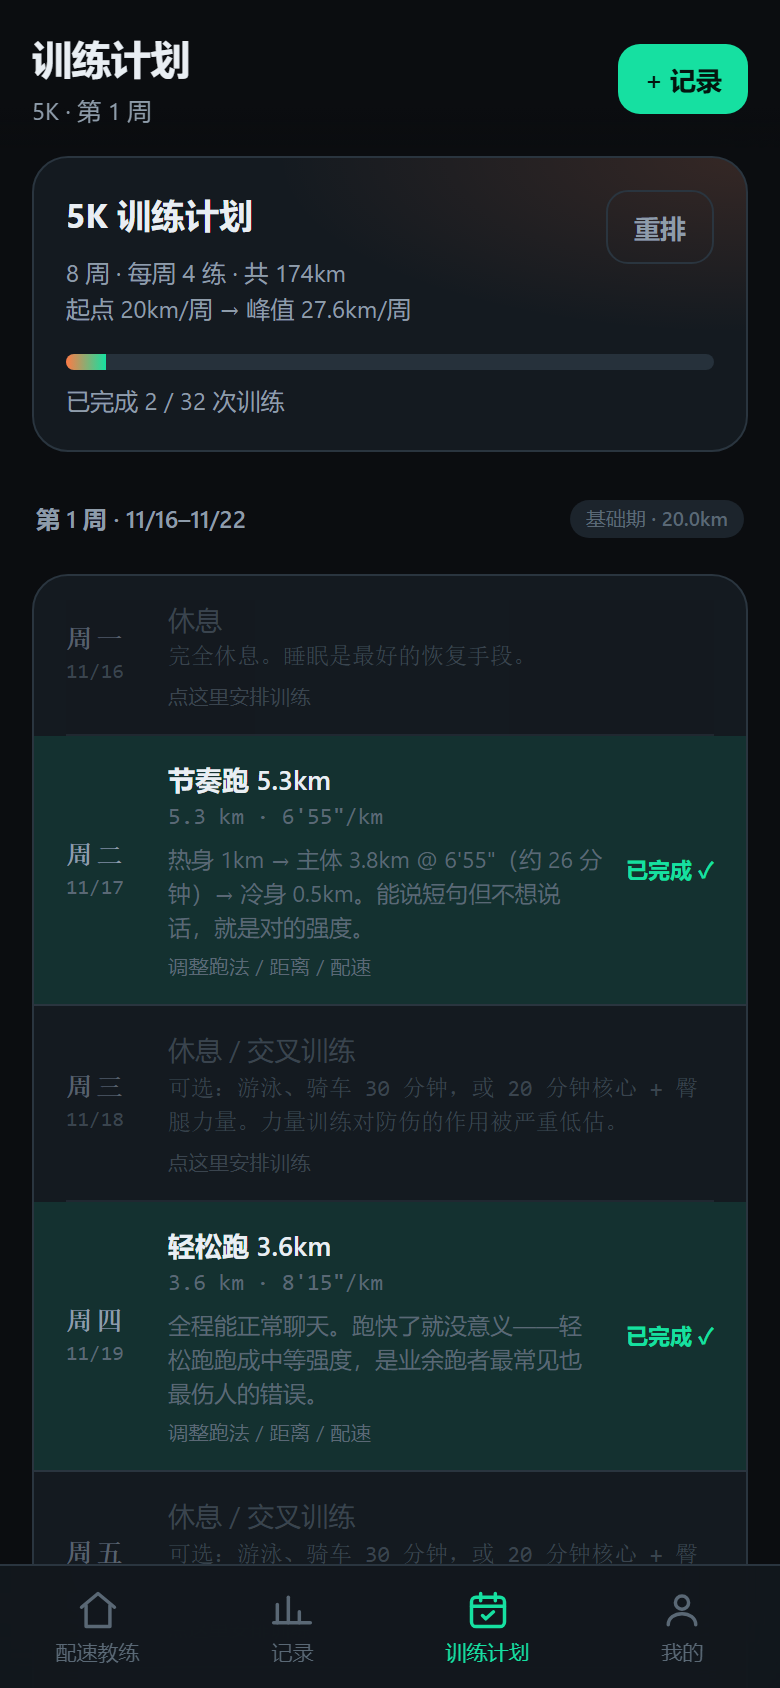
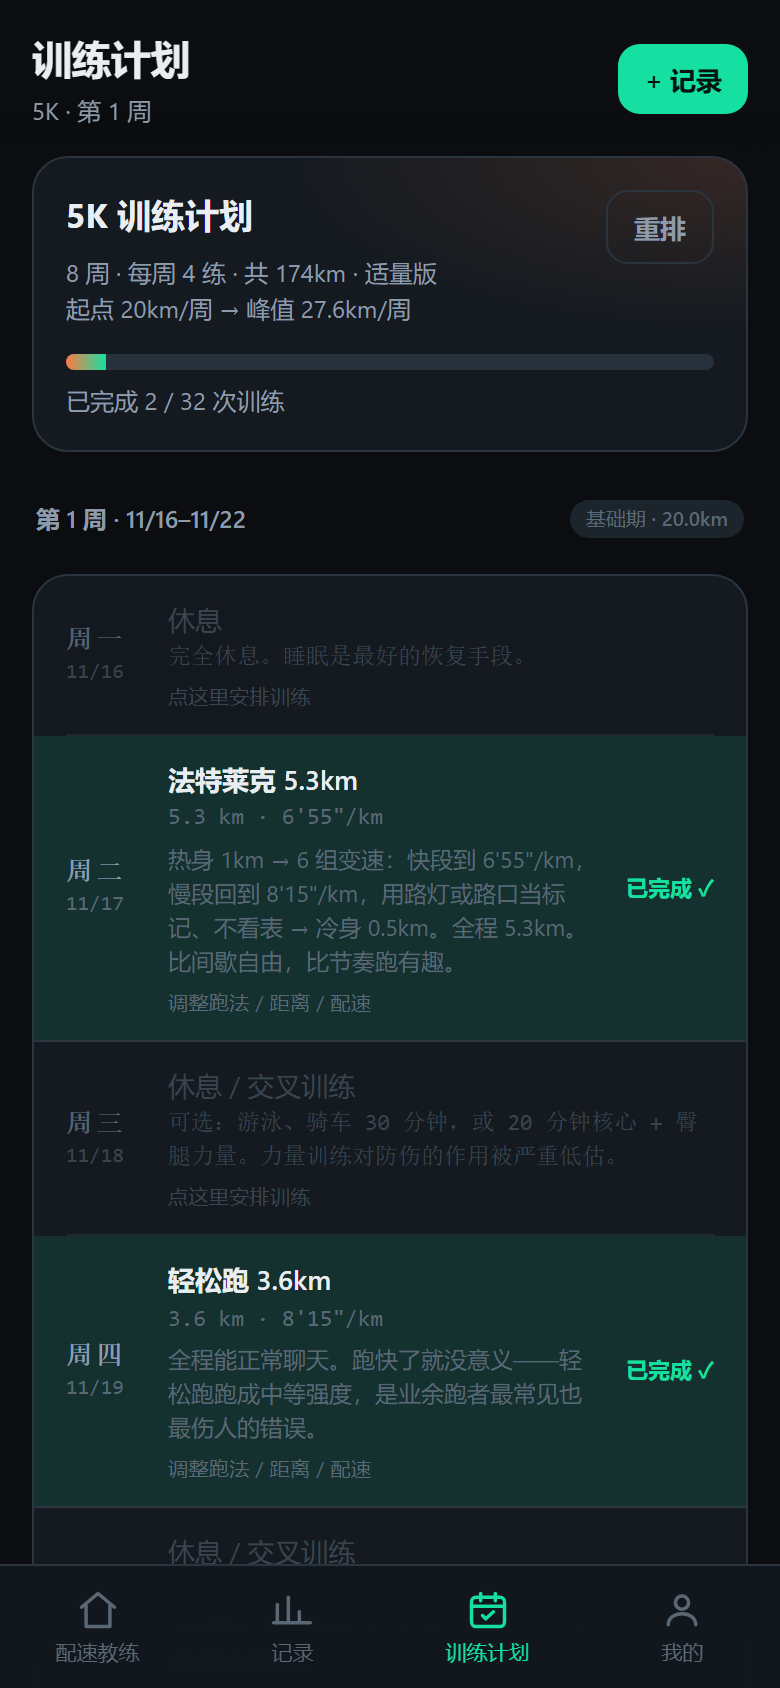
feat: 质量课不再因跑量统计不足被全降级，四类强度按 VDOT 轮转（v1.8.0）
问题：生成的计划全是轻松跑。根因两处：
1) 主课 ≥3km / 次课 ≥5km 才排质量课，周均 15.5km 摊到 5 练每节 2~3km，
   次课永远不达标 → 全部降级成轻松跑；
2) makeQuality 只有间歇/节奏/比赛配速，没有法特莱克和冲刺跑。

改法：
- 删掉距离门槛，质量课 slot 一律排强度课；距离小就排短而真的课
  （total<3.5 一档热身/冷身 0.8/0.4，2km 也能排 5×100m 加速跑），
  distKm 仍等于分配总距离，周跑量守恒不破。
- 四类课按阶段＋周序轮转：QUALITY_PAIR（2 次质量课）/ QUALITY_SOLO（3 练），
  减量周强制轻量，比赛配速跑只对半马/全马。
- 配速一律取 trainingPaces(vdot) 的 T/I/R/M/E —— 与预测成绩同一 VDOT，
  不由近期跑了多少公里决定。

测试：算法 26→30（低跑量下 3/4/5 练都覆盖四类、三档不删类型、
VDOT 30 vs 50 配速不同、短课有可执行内容且每日距离和=总跑量）。
端到端 26 / 动画 8 / 上传 11 全过。

diff --git a/js/plan.js b/js/plan.js
@@ -44,13 +44,46 @@ const PHASE_LABEL = { base: '基础期', build: '强化期', peak: '巅峰期', 
 
 const DOW_LABEL = ['周一', '周二', '周三', '周四', '周五', '周六', '周日'];
 
+/* ---------------- 质量课排布 ----------------
+   原来这里有两个门槛（主课 ≥3km、次课 ≥5km 才排质量课）。
+   跑量统计不足的跑者每天被摊到 3km 左右，次课永远不达标，
+   结果整份计划一节强度都没有 —— 这是「用跑量误判能力」。
+   现在改成：距离小就排短而真的质量课，类型按阶段＋周序轮转，
+   配速一律取 VDOT 派生的 T/I/R/M，跟预测成绩同一个水平。 */
+
 /**
- * 质量课的最小有效距离。低于这个就别硬排，改轻松跑更实在 ——
- * 一节 2km 的"间歇课"（热身 1km + 2 组 800m + 冷身 0.5km）没有训练价值。
- * 主课门槛低一些，次课门槛高一档：一周两次像样的质量课只在跑量够时才成立。
+ * 一周 2 次质量课（主+次）是业余跑者的安全上限，不是一周塞四种强度。
+ * 四类课靠跨周轮转全部覆盖。3 练时只有一次质量课，走 SOLO 的 4 周循环，
+ * 否则冲刺跑永远轮不到主课位置。
  */
-const MIN_QUALITY_PRIMARY = 3.0;
-const MIN_QUALITY_SECOND = 5.0;
+const QUALITY_PAIR = {
+  base: [['fartlek', 'sprint'], ['tempo', 'sprint']],
+  build: [['interval', 'tempo'], ['fartlek', 'sprint']],
+  peak: [['interval', 'sprint'], ['race', 'tempo']],
+  taper: [['tempo', 'sprint'], ['fartlek', 'sprint']],
+};
+const QUALITY_SOLO = {
+  base: ['fartlek', 'sprint', 'tempo', 'sprint'],
+  build: ['interval', 'tempo', 'fartlek', 'interval'],
+  peak: ['interval', 'race', 'tempo', 'interval'],
+  taper: ['tempo', 'sprint', 'fartlek', 'sprint'],
+};
+
+function qualityKind(phase, w, isPrimary, slotCount, targetEv, isCutback) {
+  if (isCutback) return isPrimary ? 'sprint' : 'fartlek';
+  if (slotCount === 1) {
+    const list = QUALITY_SOLO[phase] || QUALITY_SOLO.build;
+    let kind = list[w % list.length];
+    // 比赛配速跑只对半马/全马有意义，短距离目标回落到间歇
+    if (kind === 'race' && targetEv !== 'HM' && targetEv !== 'FM') kind = 'interval';
+    return kind;
+  }
+  const list = QUALITY_PAIR[phase] || QUALITY_PAIR.build;
+  const pair = list[w % list.length];
+  let kind = isPrimary ? pair[0] : pair[1];
+  if (kind === 'race' && targetEv !== 'HM' && targetEv !== 'FM') kind = 'interval';
+  return kind;
+}
 
 /** 周跑量低于这个值时，4 练会被摊成"每天 2 公里" —— 只用于「提醒」，不再自动改用户选择 */
 const MIN_KM_FOR_4_DAYS = 18;
@@ -127,65 +160,93 @@ const TEMPLATE = {
  * 距离字段保持一致。主体跑量写在描述里 —— 标题写 4.1km 而表单填 6.6km，
  * 用户只会以为你算错了。
  */
-function makeQuality(phase, km, paces, targetEv, isPrimary) {
+/**
+ * 一次质量课。km 是该课的总距离，函数只填内容、不改总距离 ——
+ * 周跑量守恒靠这个约束，内容长短靠组数去消化。
+ *
+ * kind 由 qualityKind 决定，四类课都有「短距离版本」：
+ * 2km 也能排 6×100m 加速跑，不需要降级成轻松跑。
+ * 配速全部来自 trainingPaces(vdot)，也就是预测成绩的那个 VDOT 水平。
+ */
+function makeQuality(phase, km, paces, targetEv, isPrimary, kind) {
   const total = r1(km);
   let warm = 2;
   let cool = 1.5;
-  if (total < 8) {
-    warm = 1.5;
-    cool = 1;
-  }
-  if (total < 5.5) {
-    warm = 1;
-    cool = 0.5;
-  }
-  const body = Math.max(1, r1(total - warm - cool));
+  if (total < 8) { warm = 1.5; cool = 1; }
+  if (total < 5.5) { warm = 1; cool = 0.5; }
+  if (total < 3.5) { warm = 0.8; cool = 0.4; }
+  const body = Math.max(0.8, r1(total - warm - cool));
 
   const pT = fmtPace(paces.T);
   const pI = fmtPace(paces.I);
   const pM = fmtPace(paces.M);
+  const pR = fmtPace(paces.R);
+  const pE = fmtPace(paces.E);
+  const tag = isPrimary ? '' : '（次课）';
+  const shell = { distKm: total };
+
+  if (kind === 'sprint') {
+    // 加速跑练的是神经肌肉和跑姿，不是心肺；组间走回、不追配速上限
+    const reps = Math.max(4, Math.min(12, Math.floor(body / 0.15)));
+    return {
+      ...shell,
+      paceKey: 'R',
+      paceText: `${pR}/km`,
+      title: `加速跑 ${reps} × 100m${tag}`,
+      desc: `热身 ${warm}km → ${reps} 组 100m 渐进加速到 ${pR}/km，组间走回起点完全恢复 → 冷身 ${cool}km。全程 ${total}km。练的是抬腿和步频，不是喘。`,
+    };
+  }
+
+  if (kind === 'interval') {
+    // 一组 = 800m 快 + 400m 慢跑恢复 ≈ 1.2km
+    const reps = Math.max(2, Math.min(10, Math.floor((body - 0.6) / 1.2) + 1));
+    return {
+      ...shell,
+      paceKey: 'I',
+      paceText: `${pI}/km`,
+      title: `间歇 ${reps} × 800m${tag}`,
+      desc: `${reps} 组 800m @ ${pI}/km，组间慢跑 400m 恢复。全程 ${total}km：热身 ${warm}km、冷身 ${cool}km。撑不住就减组数，别降配速。`,
+    };
+  }
+
+  if (kind === 'fartlek') {
+    const sets = Math.max(2, Math.min(8, Math.floor(body / 0.7) + 1));
+    return {
+      ...shell,
+      paceKey: 'T',
+      paceText: `${pT}/km`,
+      title: `法特莱克 ${total}km${tag}`,
+      desc: `热身 ${warm}km → ${sets} 组变速：快段到 ${pT}/km，慢段回到 ${pE}/km，用路灯或路口当标记、不看表 → 冷身 ${cool}km。全程 ${total}km。比间歇自由，比节奏跑有趣。`,
+    };
+  }
+
+  if (kind === 'race') {
+    return {
+      ...shell,
+      paceKey: 'M',
+      paceText: `${pM}/km`,
+      title: `比赛配速跑 ${total}km${tag}`,
+      desc: `热身 ${warm}km → 主体 ${body}km @ ${pM}/km（${targetEv === 'FM' ? '全马' : '半马'}目标配速）→ 冷身 ${cool}km。让身体记住比赛那天该是什么节奏。`,
+    };
+  }
 
   if (phase === 'taper') {
     return {
-      distKm: total,
+      ...shell,
       paceKey: 'T',
       paceText: `${pT}/km`,
-      title: `减量 · 节奏跑 ${total}km`,
-      desc: `热身 ${warm}km → 节奏跑 ${body}km @ ${pT} → 冷身 ${cool}km。减量周不追求强度，保持腿感即可。`,
+      title: `减量 · 节奏跑 ${total}km${tag}`,
+      desc: `热身 ${warm}km → 主体节奏跑 ${body}km @ ${pT}/km → 冷身 ${cool}km。减量周不追强度，保持腿感即可。`,
     };
   }
 
-  const preferInterval = targetEv === '5K' || (targetEv === '10K' && phase !== 'base');
-
-  if (preferInterval && phase !== 'base') {
-    // 一组 = 800m 快 + 400m 慢跑恢复，最后一组不用慢跑收尾
-    const reps = Math.max(2, Math.min(10, Math.floor((body - 0.8) / 1.2) + 1));
-    return {
-      distKm: total,
-      paceKey: 'I',
-      paceText: `${pI}/km`,
-      title: `间歇 ${reps} × 800m${isPrimary ? '' : '（次课）'}`,
-      desc: `${reps} 组 800m @ ${pI}，组间慢跑 400m 恢复。全程共 ${total}km：前后各 ${warm}km 热身、${cool}km 冷身。撑不住就减组数，别降配速。`,
-    };
-  }
-
-  if (phase === 'peak' && (targetEv === 'HM' || targetEv === 'FM')) {
-    return {
-      distKm: total,
-      paceKey: 'M',
-      paceText: `${pM}/km`,
-      title: `比赛配速跑 ${total}km${isPrimary ? '' : '（次课）'}`,
-      desc: `热身 ${warm}km → 主体 ${body}km @ ${pM}（目标比赛配速）→ 冷身 ${cool}km。让身体记住比赛那天该是什么节奏。`,
-    };
-  }
-
-  const minutes = Math.round((body * paces.T) / 60);
+  const minutes = Math.max(6, Math.round((body * paces.T) / 60));
   return {
-    distKm: total,
+    ...shell,
     paceKey: 'T',
     paceText: `${pT}/km`,
-    title: `节奏跑 ${total}km${isPrimary ? '' : '（次课）'}`,
-    desc: `热身 ${warm}km → 主体 ${body}km @ ${pT}（约 ${minutes} 分钟）→ 冷身 ${cool}km。能说短句但不想说话，就是对的强度。`,
+    title: `节奏跑 ${total}km${tag}`,
+    desc: `热身 ${warm}km → 主体 ${body}km @ ${pT}/km（约 ${minutes} 分钟）→ 冷身 ${cool}km。能说短句但不想说话，就是对的强度。`,
   };
 }
 
@@ -466,13 +527,16 @@ export function generatePlan(opts) {
 
       const km = perDay[slotIdx];
       const isPrimary = slotIdx === tpl.quality[0];
-      const minKm = isPrimary ? MIN_QUALITY_PRIMARY : MIN_QUALITY_SECOND;
+      const isQuality = tpl.quality.includes(slotIdx);
 
-      // 分配到的距离撑不起一节像样的质量课，就老实改轻松跑
-      if (tpl.quality.includes(slotIdx) && km >= minKm) {
+      if (isQuality) {
+        // 不再用「这节课分到几公里」判断该不该有强度。
+        // 跑量统计不足只是记录少，不等于跑者只能跑轻松跑；
+        // 强度类型和配速按 VDOT（预测成绩同一水平）排，距离小就把课排短。
+        const kind = qualityKind(phase, w, isPrimary, tpl.quality.length, targetEv, isCutback);
         pushRun(weekStart, w, dow, phase, {
           type: 'quality',
-          ...makeQuality(phase, km, paces, targetEv, isPrimary),
+          ...makeQuality(phase, km, paces, targetEv, isPrimary, kind),
         });
       } else {
         pushRun(weekStart, w, dow, phase, {

diff --git a/README.md b/README.md
@@ -44,6 +44,7 @@
 - **六种跑法** — 恢复跑 / 轻松跑 / 节奏跑 / 间歇跑 / 冲刺跑 / 法特莱克，每种都给配速区间、心率区间、步频目标和「强度对不对看这一句」的体感标准
 - **体能画像** — 有氧能力、心率效率、步频经济性、负荷安全（ACWR）四个维度打分，缺数据的维度显示「—」而不是瞎猜
 - **训练计划** — 5K/10K/半马/全马，3–5 练/周，逐日列出课表、距离、配速、要点；换目标距离真的会换计划
+- **四类质量课** — 节奏跑 / 间歇跑 / 法特莱克 / 加速跑按阶段与周序轮转，配速一律取 VDOT 派生的 T/I/R/M（和预测成绩同一水平），不因近期跑量统计少就把强度课全降成轻松跑
 - **三档强度** — 休闲版（约 −22% 跑量）/ 适量版（按当前跑量推算）/ 加量版（约 +22%），按身体状态选
 - **周数自选** — 4 / 8 / 12 / 16 / 20 周，或跟随目标距离默认（5K 8 周 / 10K 10 周 / 半马 12 周 / 全马 16 周）
 - **不替你改选择** — 选 5 练就排 5 练，不再自动降频。生成前先评估「你选的组合」和「实际跑量」的差距，偏大/偏小都会带着具体数字提醒并给建议，你点「按我的选择」或「采用建议」之后才生成
